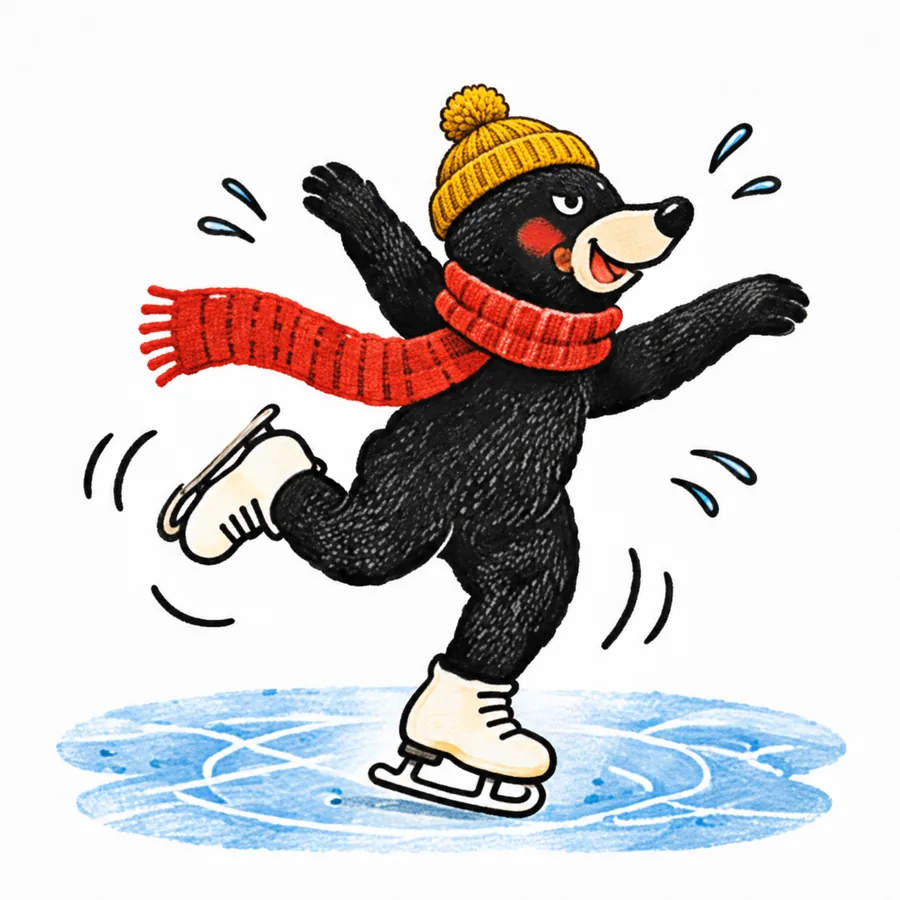
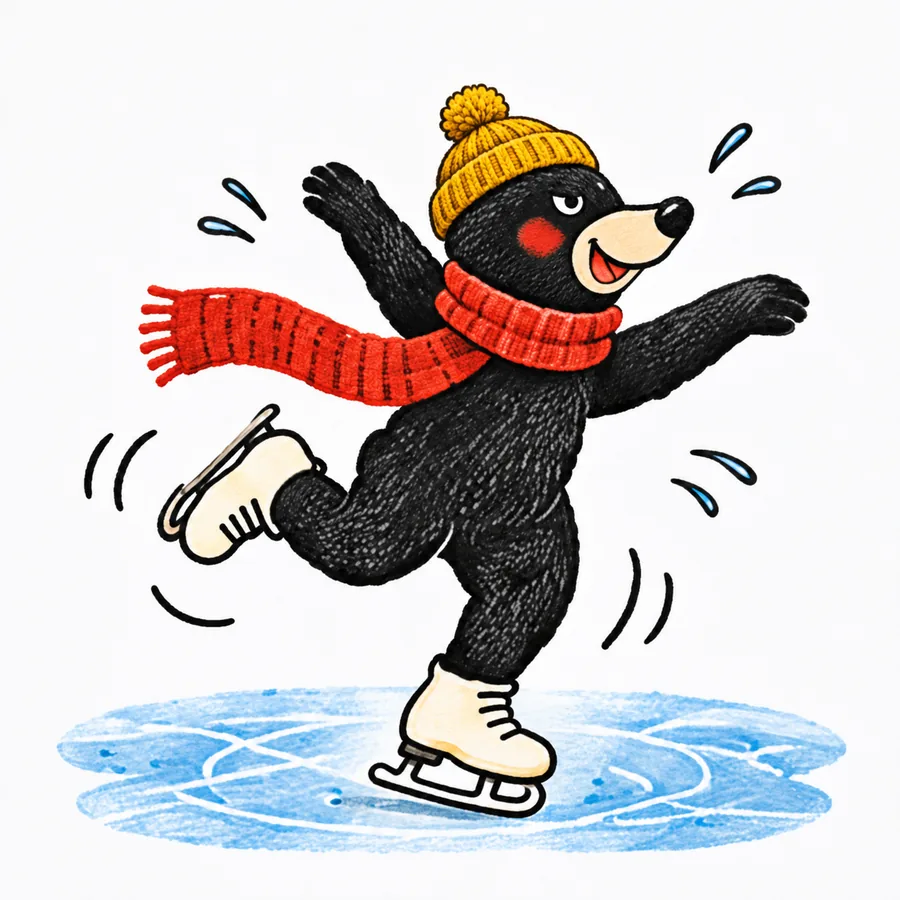
Replace day 11 and day 16 illustrations
Day 11: corrected cheek. Day 16: bear without headphones; alt text updated.

diff --git a/script.js b/script.js
@@ -281,7 +281,7 @@ document.addEventListener("DOMContentLoaded", () => {
     { type: "audio", title: "The chestnut stop", image: "assets/2026/images/day-13-chestnuts.webp", alt: "The bear eating roasted chestnuts from a paper cone", src: "assets/2026/audio/day-13-chestnuts.mp3" }, // 13
     { type: "audio", title: "The snowball trick", image: "assets/2026/images/day-14-the-snowball-trick.webp", alt: "The bear balancing a snowball on his nose, with the Fernsehturm in the background", src: "assets/2026/audio/day-14-the-snowball-trick.mp3" }, // 14
     { type: "audio", title: "A döner with a bow", image: "assets/2026/images/day-15-the-doener.webp", alt: "The bear carrying a giant döner tied with a red bow", src: "assets/2026/audio/day-15-the-doener.mp3" }, // 15
-    { type: "audio", title: "Dancing in the kitchen", image: "assets/2026/images/day-16-dancing-delights.webp", alt: "The bear dancing in big yellow headphones next to a speaker", src: "assets/2026/audio/day-16-dancing-delights.mp3" }, // 16
+    { type: "audio", title: "Dancing in the kitchen", image: "assets/2026/images/day-16-dancing-delights.webp", alt: "The bear dancing happily next to a loudspeaker", src: "assets/2026/audio/day-16-dancing-delights.mp3" }, // 16
     { type: "audio", title: "The reading fort", image: "assets/2026/images/day-17-the-reading-fort.webp", alt: "The bear reading a red book in a cozy blanket fort under string lights, with a lantern beside him", src: "assets/2026/audio/day-17-the-reading-fort.mp3" }, // 17
     { type: "audio", title: "The tram surprise", image: "assets/2026/images/day-18-the-tram-surprise.webp", alt: "The bear in a Santa hat lifting a wrapped green present into the open door of a yellow tram", src: "assets/2026/audio/day-18-the-tram-surprise.mp3" }, // 18
     { type: "audio", title: "The Gingerbread King", image: "assets/2026/images/day-19-the-gingerbread-king.webp", alt: "The bear wearing a golden crown, admiring a gingerbread Brandenburg Gate", src: "assets/2026/audio/day-19-the-gingerbread-king.mp3" }, // 19
